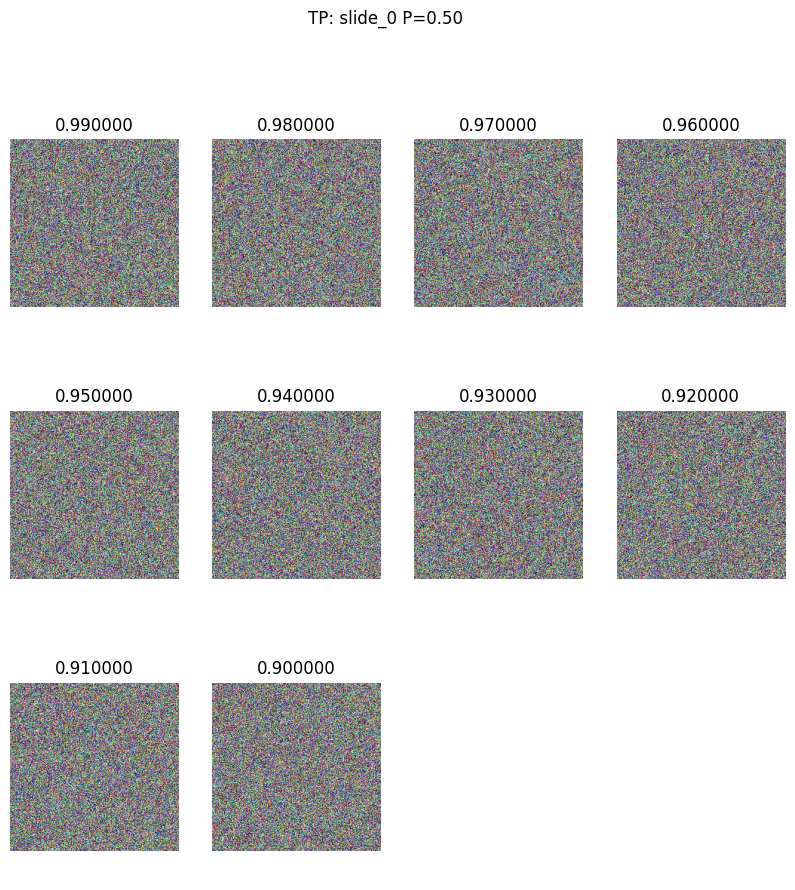
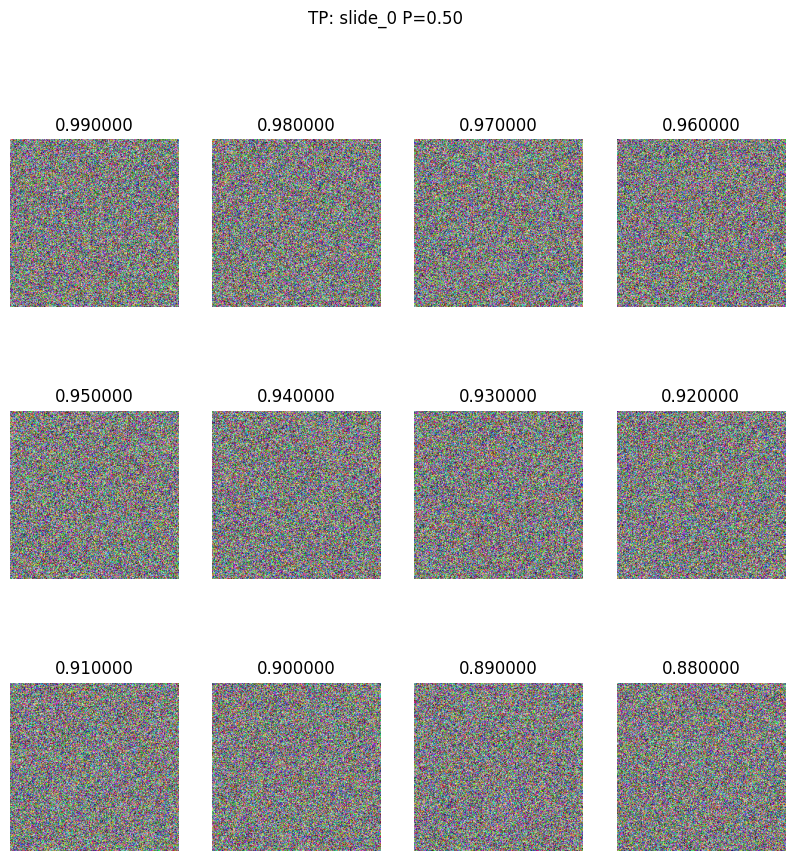
updat plot tests

diff --git a/hi-ml-histopathology/testhisto/testhisto/utils/test_top_bottom_utils.py b/hi-ml-histopathology/testhisto/testhisto/utils/test_top_bottom_utils.py
@@ -300,13 +300,13 @@ def slide_node() -> SlideNode:
     """Fixture to create a mock slide node with corresponding top and bottom tiles."""
     torch.manual_seed(42)
     tile_size = (3, 224, 224)
-    num_top_tiles = 10
+    num_top_tiles = 12
     slide_node = SlideNode(slide_id="slide_0", prob_score=0.5)
-    top_attn_scores = [0.99, 0.98, 0.97, 0.96, 0.95, 0.94, 0.93, 0.92, 0.91, 0.90]
+    top_attn_scores = [0.99, 0.98, 0.97, 0.96, 0.95, 0.94, 0.93, 0.92, 0.91, 0.90, 0.89, 0.88]
     slide_node.top_tiles = [
         TileNode(attn=top_attn_scores[i], data=torch.randint(0, 255, tile_size)) for i in range(num_top_tiles)
     ]
-    bottom_attn_scores = [0.09, 0.08, 0.07, 0.06, 0.05, 0.04, 0.03, 0.02, 0.01, 0.009]
+    bottom_attn_scores = [0.09, 0.08, 0.07, 0.06, 0.05, 0.04, 0.03, 0.02, 0.01, 0.009, 0.008, 0.007]
     slide_node.bottom_tiles = [
         TileNode(attn=bottom_attn_scores[i], data=torch.randint(0, 255, tile_size)) for i in range(num_top_tiles)
     ]
